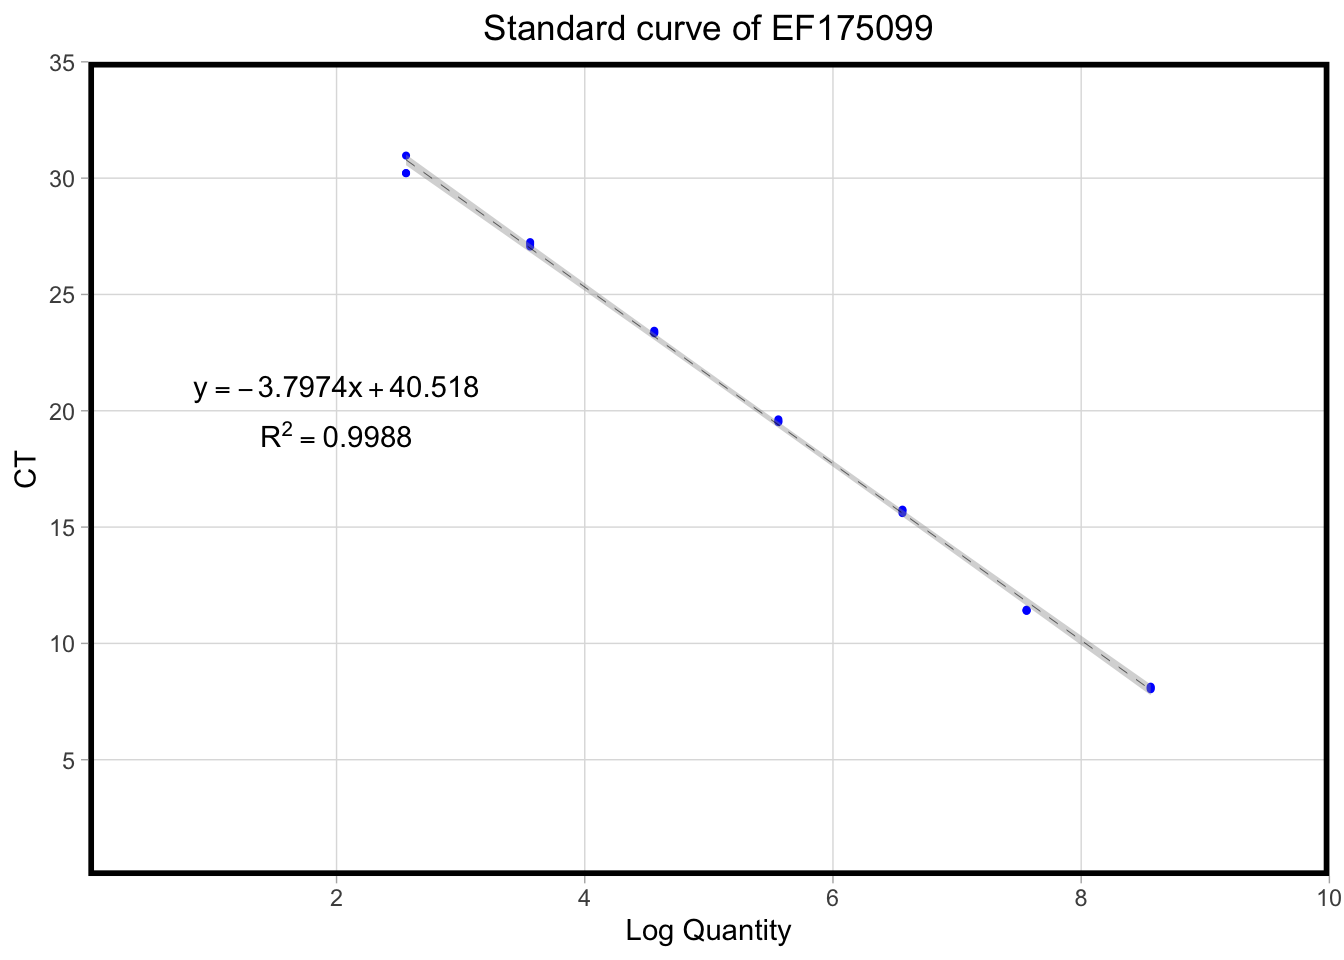
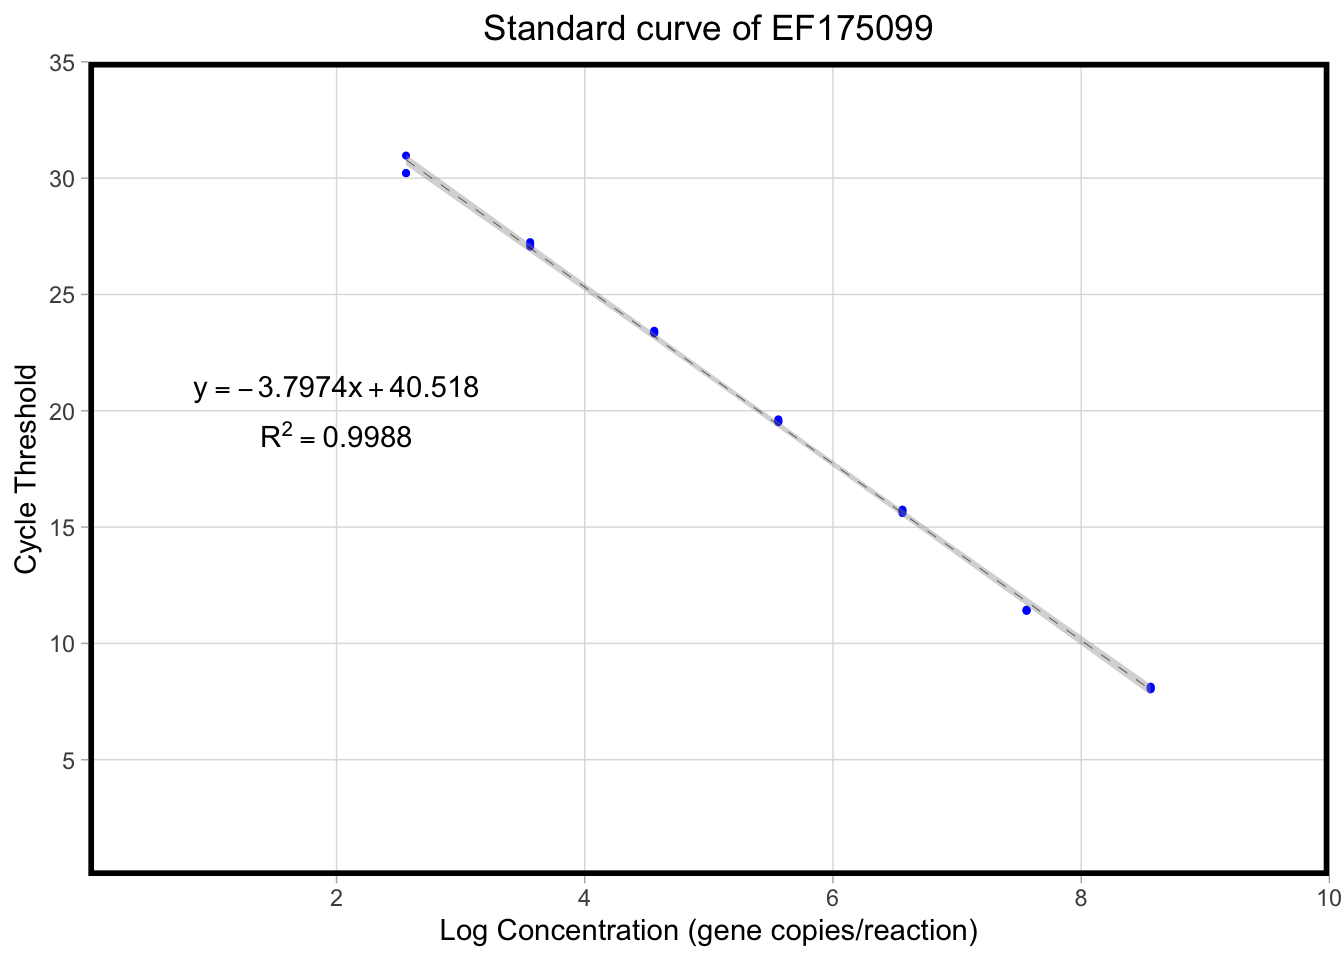
Change plot labels

Changed region(s): [[0.3438, 0.9375, 0.7188, 1.0], [0.0, 0.375, 0.0312, 0.5938]]

diff --git a/docs/qpcr_plots.html b/docs/qpcr_plots.html
@@ -389,8 +389,8 @@ div.tocify {
               linetype = &#39;dashed&#39;) + 
   scale_x_continuous(breaks = seq(2, 10, 2), expand = c(0, 0), limits = c(0, 10)) +
   scale_y_continuous(breaks = seq(5, 35, 5), expand = c(0, 0), limits = c(0, 35)) + 
-  labs(x = &quot;Log Quantity&quot;,
-       y = &quot;CT&quot;,
+  labs(x = &quot;Log Concentration (gene copies/reaction)&quot;,
+       y = &quot;Cycle Threshold&quot;,
        title = &quot;Standard curve of U76553&quot;) + 
   theme(panel.grid.minor = element_blank() ) + 
   annotate(&quot;text&quot;, x = 2, y = 20, label = &quot;atop(y == -3.8806 * x + 40.705, R^2 == 0.996)&quot;, parse = TRUE) +
@@ -409,8 +409,8 @@ div.tocify {
               linetype = &#39;dashed&#39;) + 
   scale_x_continuous(breaks = seq(2, 10, 2), expand = c(0, 0), limits = c(0, 10)) +
   scale_y_continuous(breaks = seq(5, 35, 5), expand = c(0, 0), limits = c(0, 35)) + 
-  labs(x = &quot;Log Quantity&quot;,
-       y = &quot;CT&quot;,
+  labs(x = &quot;Log Concentration (gene copies/reaction)&quot;,
+       y = &quot;Cycle Threshold&quot;,
        title = &quot;Standard curve of EF175099&quot;) + 
   theme(panel.grid.minor = element_blank() ) + 
   annotate(&quot;text&quot;, x = 2, y = 20, label = &quot;atop(y == -3.7974 * x + 40.518, R^2 == 0.9988)&quot;, parse = TRUE) +

diff --git a/docs/amoa_aob_phylogeny.html b/docs/amoa_aob_phylogeny.html
@@ -394,9 +394,9 @@ div.tocify {
 <pre class="r"><code>plotTree(amoa_tree, no.margin = TRUE,
          fsize = 1,
          lwd = 1) </code></pre>
-<p><img src="amoa_aob_phylogeny_files/figure-html/unnamed-chunk-103-1.png" width="672" /></p>
+<p><img src="amoa_aob_phylogeny_files/figure-html/unnamed-chunk-9-1.png" width="672" /></p>
 <pre class="r"><code>ggtree(amoa_tree, branch.length = &quot;none&quot;) + geom_tiplab()</code></pre>
-<p><img src="amoa_aob_phylogeny_files/figure-html/unnamed-chunk-104-1.png" width="672" /></p>
+<p><img src="amoa_aob_phylogeny_files/figure-html/unnamed-chunk-10-1.png" width="672" /></p>
 </div>
 
 <p><br>
